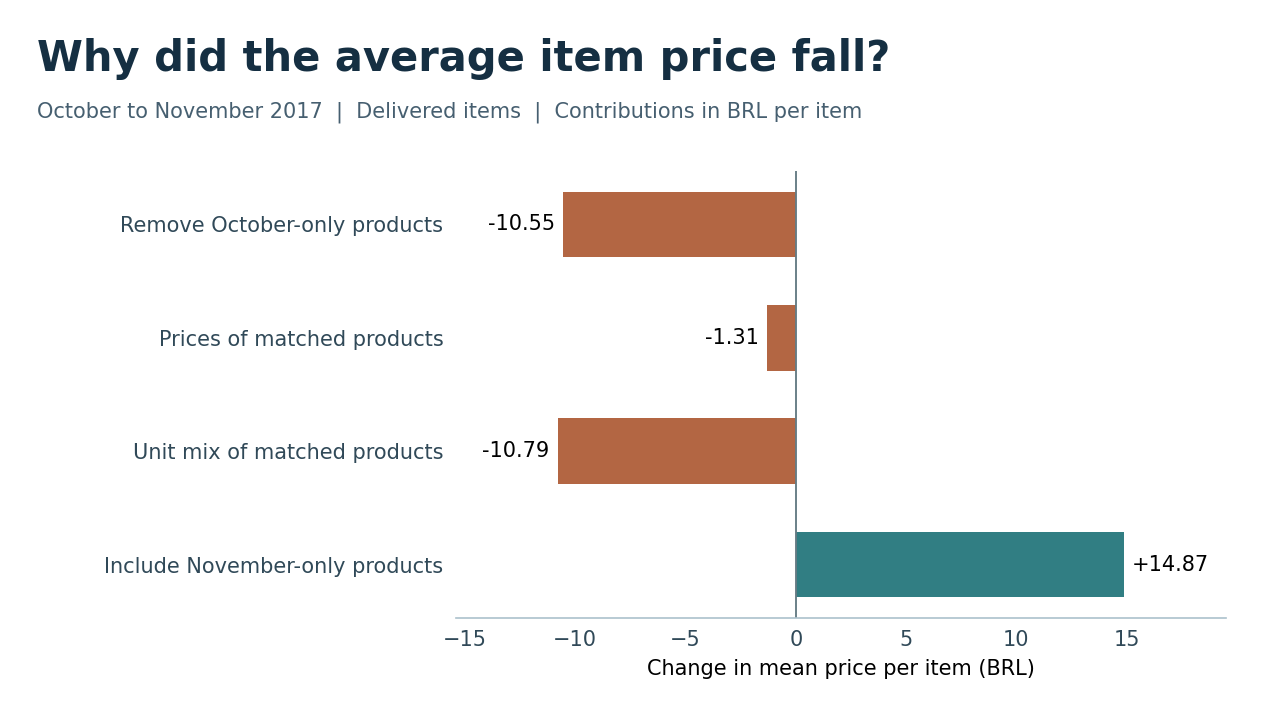
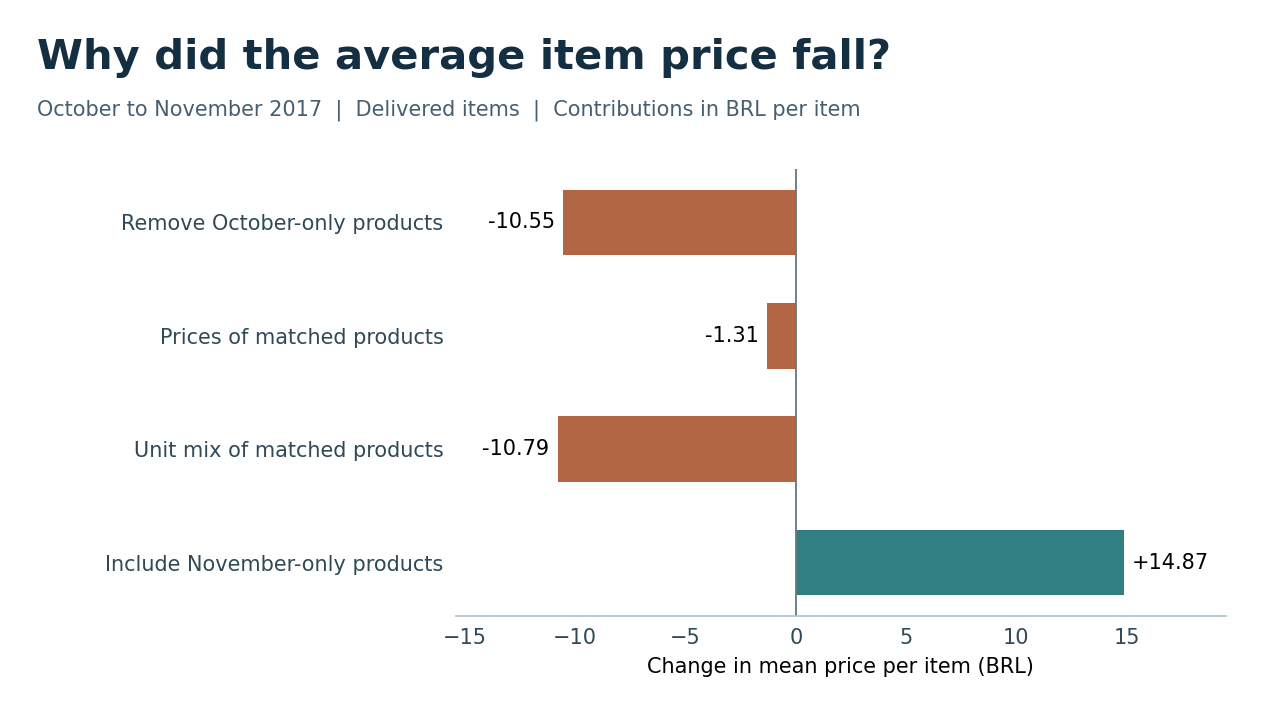
docs: expand the Olist README with verified findings, charts, and business recommendations

diff --git a/README.md b/README.md
@@ -9,48 +9,15 @@
 [![Dataset](https://img.shields.io/badge/Dataset-Olist-087E8B)](https://www.kaggle.com/datasets/olistbr/brazilian-ecommerce)
 ![Progress](https://img.shields.io/badge/Analysis-13_steps-25665B)
 
-[Overview](#overview) · [Dataset](#dataset) · [Results](#results) · [Script guide](#script-guide) · [Run locally](#run-locally)
+[Overview](#overview) · [Results](#results) · [Business recommendations](#business-recommendations) · [Dataset](#dataset) · [Script guide](#script-guide) · [Run locally](#run-locally)
 
 </div>
 
 ## Overview
 
-A sales manager sees a strong month on the dashboard. Did more customers place orders, or did each order contain more merchandise? This project uses Olist transactions to work through that question and two others. Which customers, cities, and categories account for the most sales? Where do deliveries miss their promised dates?
+A sales manager sees a strong month on the dashboard. Did order volume rise, or did buyers spend more per order? This project uses Olist transactions to work through that question and two others. Which customers, cities, and categories account for the most sales? How often do deliveries miss their promised dates, and by how much?
 
 Thirteen numbered scripts take the raw files from inspection to sales, customer and delivery results. Each script prints a short summary. Detailed results are available in CSV tables and seven figures.
-
-## Dataset
-
-The **Brazilian E-Commerce Public Dataset by Olist** contains anonymized orders placed on Brazilian marketplaces between 2016 and 2018. Olist provides nine CSV files. Each describes a different part of a purchase. [Dataset on Kaggle](https://www.kaggle.com/datasets/olistbr/brazilian-ecommerce) · [Download the CSV archive](https://www.kaggle.com/api/v1/datasets/download/olistbr/brazilian-ecommerce)
-
-| Table | What one row describes | How we will use it |
-|:--|:--|:--|
-| Orders | One order | Status, purchase time, delivery date and promised date |
-| Customers | One order-linked customer record | Join on `customer_id`, then track buyers across orders with `customer_unique_id` |
-| Order items | One item within an order | Identify an item by `order_id` and `order_item_id`. Sum `price` for merchandise sales |
-| Order payments | One payment entry within an order | Sum `payment_value` by order before comparing payments with item and freight totals |
-| Order reviews | One recorded review entry | Examine scores, optional comments and coverage by order |
-| Products | One product | Map `product_id` to a category |
-| Sellers | One seller | Identify each item's seller and seller location |
-| Geolocation | One location observation for a postal prefix | Summarize by prefix before joining coordinates to customers or sellers |
-| Category translations | One category name and its English translation | Label product category charts |
-
-### How the tables fit together
-
-```mermaid
-flowchart TD
-    O["Orders"] -->|"customer_id"| C["Customers"]
-    O -->|"order_id"| I["Order items"]
-    O -->|"order_id"| P["Payments"]
-    O -->|"order_id"| R["Reviews"]
-    I -->|"product_id"| PR["Products"]
-    I -->|"seller_id"| S["Sellers"]
-    PR -->|"category name"| T["Category translations"]
-    C -->|"postal prefix"| G["Geolocation by prefix"]
-    S -->|"postal prefix"| G
-```
-
-An order with two items and two payment entries produces four rows if both detail tables are joined directly on `order_id`. For order-level analysis, total each detail table separately before joining it to orders. Keep an item-level table for category rankings.
 
 ## Results
 
@@ -62,15 +29,37 @@ An order with two items and two payment entries produces four rows if both detai
 | How often did deliveries miss the promise? | **6,534 of 96,470 evaluated orders (6.77%)** arrived after the promised calendar day. The other eight delivered orders lack an actual delivery timestamp. | [Delivery outcomes](reports/tables/05_delivery_outcomes.csv) |
 | Which city and category led merchandise sales? | **São Paulo / SP** led cities with R$ 1,859,556.83. **Health & Beauty** led categories with R$ 1,233,131.72. | [Cities](reports/tables/11_city_sales.csv) · [Categories](reports/tables/12_category_sales.csv) |
 
+### Order coverage and data quality
+
+The nine source tables include **99,441 orders** and **112,650 order items**. Aggregating items by order ID before the join preserves all 99,441 order rows. Of those orders, 98,666 have item records and 775 have none. All 96,478 delivered orders have item values and together account for **110,197 items sold**. Sales are the sum of item prices in BRL. Freight is reported separately. [Table inventory](reports/tables/table_inventory.csv) · [Join checks](reports/tables/06_item_join_checks.csv) · [Sales KPIs](reports/tables/07_sales_kpis.csv)
+
+All nonempty values in the five order timestamp columns parsed successfully. Of 2,965 orders missing a customer delivery timestamp, only **eight** have delivered status. Another six orders have canceled status and a recorded delivery date. The eight delivered orders count toward sales and are excluded from duration and punctuality calculations. The geolocation table contains 261,831 repeated full rows, and 58.70% of review records lack written comments. [Column profile](reports/tables/column_profile.csv) · [Date checks](reports/tables/02_date_checks.csv) · [Dates by status](reports/tables/03_dates_by_status.csv) · [14 flagged orders](reports/tables/03_delivery_exceptions.csv)
+
+### Delivery speed and reliability
+
+Customers received half of eligible orders within **10.22 days** of purchase and 90% within **23.10 days**. Of the 96,470 evaluated deliveries, 88,644 arrived early, 1,292 arrived on the promised calendar day and 6,534 arrived late. Among late orders alone, the median delay was **7 days** and the mean was **10.62 days**. Duration measures elapsed time since purchase. Lateness uses the difference between the actual and estimated calendar dates. [Duration percentiles](reports/tables/04_duration_stats.csv) · [Delivery outcomes](reports/tables/05_delivery_outcomes.csv) · [Delay among late orders](reports/tables/05_late_delay_stats.csv)
+
+![Early, on-day and late deliveries as shares of 96,470 evaluated orders](assets/figures/05_compare_delivery_dates/delivery_outcomes.png)
+
+### Why November 2017 sales grew
+
+| Delivered orders by purchase month | October 2017 | November 2017 | Change |
+|:--|--:|--:|--:|
+| Merchandise sales | R$ 648,247.65 | R$ 987,765.37 | +52.37% |
+| Orders | 4,478 | 7,289 | +62.77% |
+| Average order value | R$ 144.76 | R$ 135.51 | −6.39% |
+| Items per order | 1.1644 | 1.1627 | −0.14% |
+| Average selling price per item | R$ 124.33 | R$ 116.55 | −6.26% |
+
+The extra **2,811 orders** drove the highest sales month in the report. At October’s average order value, those additional orders would have added about R$ 406,928. The lower average value across November orders offset about R$ 67,410, leaving an observed gain of **R$ 339,517.72**. Basket size barely moved. Most of the fall in order value came from the lower price per item. Calculations use the underlying totals before rounding. [Monthly sales, order counts and growth](reports/tables/08_monthly_sales.csv)
+
 ![Monthly merchandise sales in BRL](assets/figures/09_plot_monthly_trends/total_sales.png)
 
-The monthly table covers all observed purchase months for delivered orders, including months with zero qualifying orders. The three trend charts use the original January 2017 to August 2018 display window. Interpret the first and last observed months with care because the observation window can cut through a month. A missing growth rate means the previous month was absent or had zero sales.
+| How many orders were placed? | How much merchandise did each order contain in BRL? |
+|:--|:--|
+| ![Delivered order count by purchase month](assets/figures/09_plot_monthly_trends/order_count.png) | ![Average merchandise value per delivered order](assets/figures/09_plot_monthly_trends/average_order_value.png) |
 
-![Delivery outcomes by promised date](assets/figures/05_compare_delivery_dates/delivery_outcomes.png)
-
-**Reading the counts.** An order qualifies for sales when its status is delivered and its items have a merchandise value. The duration measure also requires a valid purchase and actual delivery date with a nonnegative interval. The late rate additionally requires a promised date. Delivery on the promised calendar day counts as on time.
-
-[Order count trend](assets/figures/09_plot_monthly_trends/order_count.png) · [Average order value trend](assets/figures/09_plot_monthly_trends/average_order_value.png) · [City ranking](assets/figures/11_rank_cities/top_sales.png) · [Category ranking](assets/figures/12_rank_product_categories/top_sales.png)
+The charts show January 2017 through August 2018. The CSV includes every month between the first and last observed delivered purchases, including months with zero qualifying orders. Growth is blank when the preceding month is missing or has zero sales. Boundary months can have incomplete coverage.
 
 ### October and November 2017 by product
 
@@ -87,6 +76,64 @@ The mean selling price per delivered item fell from **R$ 124.33 to R$ 116.55**. 
 The comparison moves from October's full basket to the October matched basket, then to the November matched basket, and finally to November's full basket. Average unit shares and prices across both months split the matched change symmetrically. The net product mix contribution was **−R$ 6.47 (83.2% of the overall fall)** under this method. A product observed in only one month has no observed price in the other month. Changes in observed selling prices can also reflect different sellers.
 
 ![Contributions to the fall in average item price](assets/figures/13_compare_product_prices/price_change.png)
+
+### Customers, cities and product categories
+
+**2,801 of 93,358 buyers** placed at least two delivered orders in the observation window. Buyers are counted using `customer_unique_id`. The highest-spending buyer spent **R$ 13,440 on one order**, illustrating why spend and repeat purchase are separate customer measures. Buyers who entered near the end of the dataset had less time to place another order. [Buyer KPIs](reports/tables/10_customer_kpis.csv) · [Top 10 buyers](reports/tables/10_top_customers.csv)
+
+| City and state | Merchandise sales | Share of sales | Product category | Merchandise sales | Share of sales |
+|:--|--:|--:|:--|--:|--:|
+| São Paulo / SP | R$ 1,859,556.83 | 14.06% | Health & Beauty | R$ 1,233,131.72 | 9.33% |
+| Rio de Janeiro / RJ | R$ 955,573.97 | 7.23% | Watches & Gifts | R$ 1,166,176.98 | 8.82% |
+| Belo Horizonte / MG | R$ 346,039.04 | 2.62% | Bed, Bath & Table | R$ 1,023,434.76 | 7.74% |
+
+São Paulo and Rio de Janeiro together accounted for **21.29% of merchandise sales**. Health & Beauty led categories by sales, while Bed, Bath & Table sold more units than either of the two categories above it. City totals use the buyer’s city and state. Category totals use each individual item’s category, so an order containing two categories can count toward both categories’ order counts. [Full city ranking](reports/tables/11_city_sales.csv) · [Full category ranking](reports/tables/12_category_sales.csv)
+
+| Top cities by merchandise sales | Top categories by merchandise sales |
+|:--|:--|
+| ![Ten highest-selling city and state pairs](assets/figures/11_rank_cities/top_sales.png) | ![Ten highest-selling product categories](assets/figures/12_rank_product_categories/top_sales.png) |
+
+## Business recommendations
+
+| Evidence | Suggested action |
+|:--|:--|
+| November order volume rose 62.77% while average order value fell 6.39%. | Plan fulfillment capacity using projected orders and units. Track average order value separately when setting a sales target. |
+| Product mix accounts for 83.2% of the observed fall in mean item price under the matched-product comparison. | Review the products gaining unit share before changing prices. Add product cost data before making margin decisions. |
+| Late deliveries missed their promise by a median of seven days. | Break late deliveries down by route or seller, showing both late-order counts and rates, before choosing where to intervene. |
+| The observed repeat-buyer rate was 3.00%. | Compare first-purchase cohorts over the same follow-up period before setting a retention target. |
+
+## Dataset
+
+The **Brazilian E-Commerce Public Dataset by Olist** contains anonymized orders placed on Brazilian marketplaces between 2016 and 2018. Olist provides nine CSV files. Each describes a different part of a purchase. [Dataset on Kaggle](https://www.kaggle.com/datasets/olistbr/brazilian-ecommerce) · [Download the CSV archive](https://www.kaggle.com/api/v1/datasets/download/olistbr/brazilian-ecommerce)
+
+| Table | What one row describes | Use in this analysis |
+|:--|:--|:--|
+| Orders | One order | Status, purchase time, delivery date and promised date |
+| Customers | One order-linked customer record | Join on `customer_id`, then track buyers across orders with `customer_unique_id` |
+| Order items | One item within an order | Identify an item by `order_id` and `order_item_id`. Sum `price` for merchandise sales |
+| Order payments | One payment entry within an order | Profile payment records and their completeness |
+| Order reviews | One recorded review entry | Profile scores and missing review text |
+| Products | One product | Map `product_id` to a category |
+| Sellers | One seller | Profile seller records and identifiers |
+| Geolocation | One location observation for a postal prefix | Audit duplicate location records and postal prefixes |
+| Category translations | One category name and its English translation | Label product category charts |
+
+### Relationships available in the source data
+
+```mermaid
+flowchart TD
+    O["Orders"] -->|"customer_id"| C["Customers"]
+    O -->|"order_id"| I["Order items"]
+    O -->|"order_id"| P["Payments"]
+    O -->|"order_id"| R["Reviews"]
+    I -->|"product_id"| PR["Products"]
+    I -->|"seller_id"| S["Sellers"]
+    PR -->|"category name"| T["Category translations"]
+    C -->|"postal prefix"| G["Geolocation grouped by prefix"]
+    S -->|"postal prefix"| G
+```
+
+An order with two items and two payment entries produces four rows if both detail tables are joined directly on `order_id`. For order-level analysis, total each detail table separately before joining it to orders. Keep an item-level table for category rankings.
 
 ## Run locally
 
